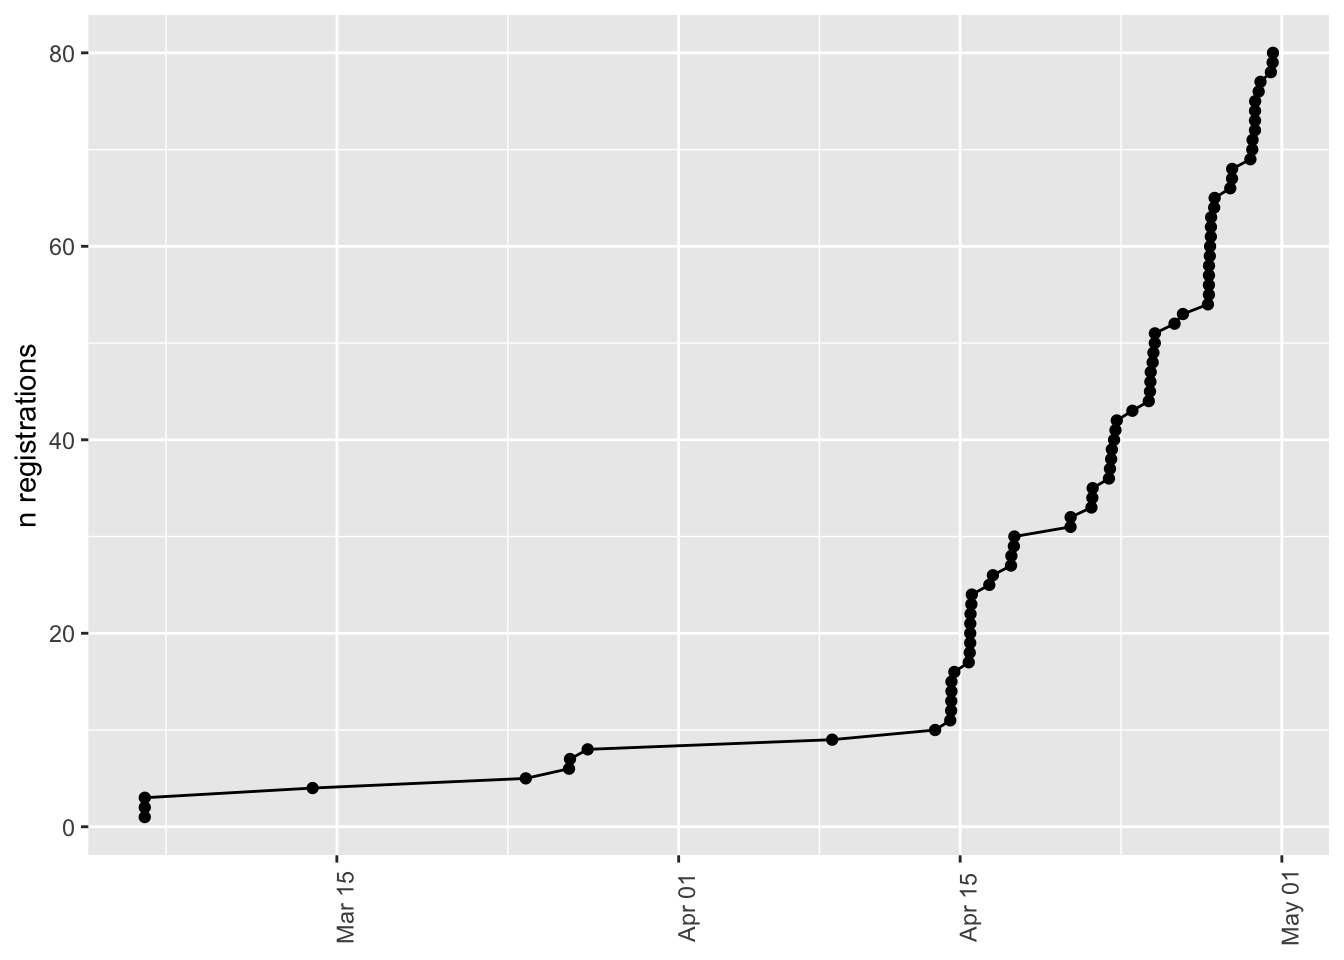
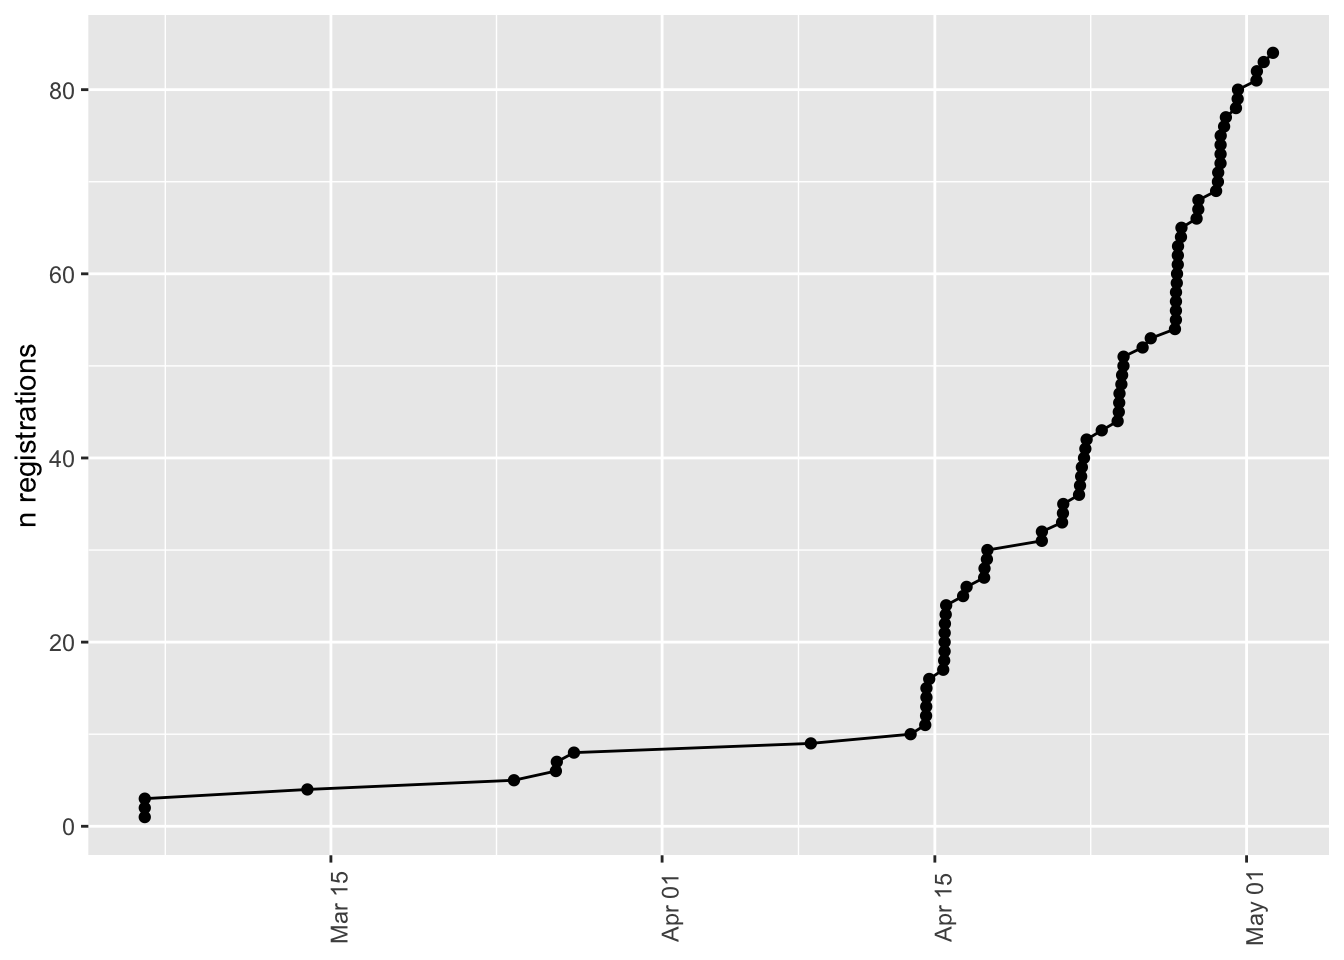
Update data and render.

diff --git a/docs/registration.html b/docs/registration.html
@@ -485,8 +485,8 @@ Table&nbsp;9.1: A minimal data dictionary.
 <span id="cb6-3"><a href="#cb6-3" aria-hidden="true" tabindex="-1"></a>all_names <span class="ot">&lt;-</span> <span class="fu">unique</span>(<span class="fu">c</span>(attendees_names, presenter_names))</span></code></pre></div><button title="Copy to Clipboard" class="code-copy-button"><i class="bi"></i></button></div>
 </details>
 </div>
-<p>As of 2026-05-01, we have <em>n</em>=80 registered attendees. We also have <em>n</em>=20 presenters. A handful of presenters also registered, so we have <em>n</em>=94 unique attendees who plan to come.</p>
-<p>That is 125.3% of our target registration/attendance limit of <em>n</em>=75.</p>
+<p>As of 2026-05-03, we have <em>n</em>=84 registered attendees. We also have <em>n</em>=20 presenters. A handful of presenters also registered, so we have <em>n</em>=97 unique attendees who plan to come.</p>
+<p>That is 129.3% of our target registration/attendance limit of <em>n</em>=75.</p>
 </section>
 <section id="time-series" class="level3 unnumbered">
 <h3 class="unnumbered anchored" data-anchor-id="time-series">Time series</h3>
@@ -892,7 +892,7 @@ Figure&nbsp;9.3: Registrations by college/unit.
 </div>
 </div>
 </div>
-<p>The bootcamp registrations represent <em>n</em>=43 departments and <em>n</em>=15 campuses, colleges, institutes, or administrative entities.</p>
+<p>The bootcamp registrations represent <em>n</em>=44 departments and <em>n</em>=15 campuses, colleges, institutes, or administrative entities.</p>
 
 
 <!-- -->